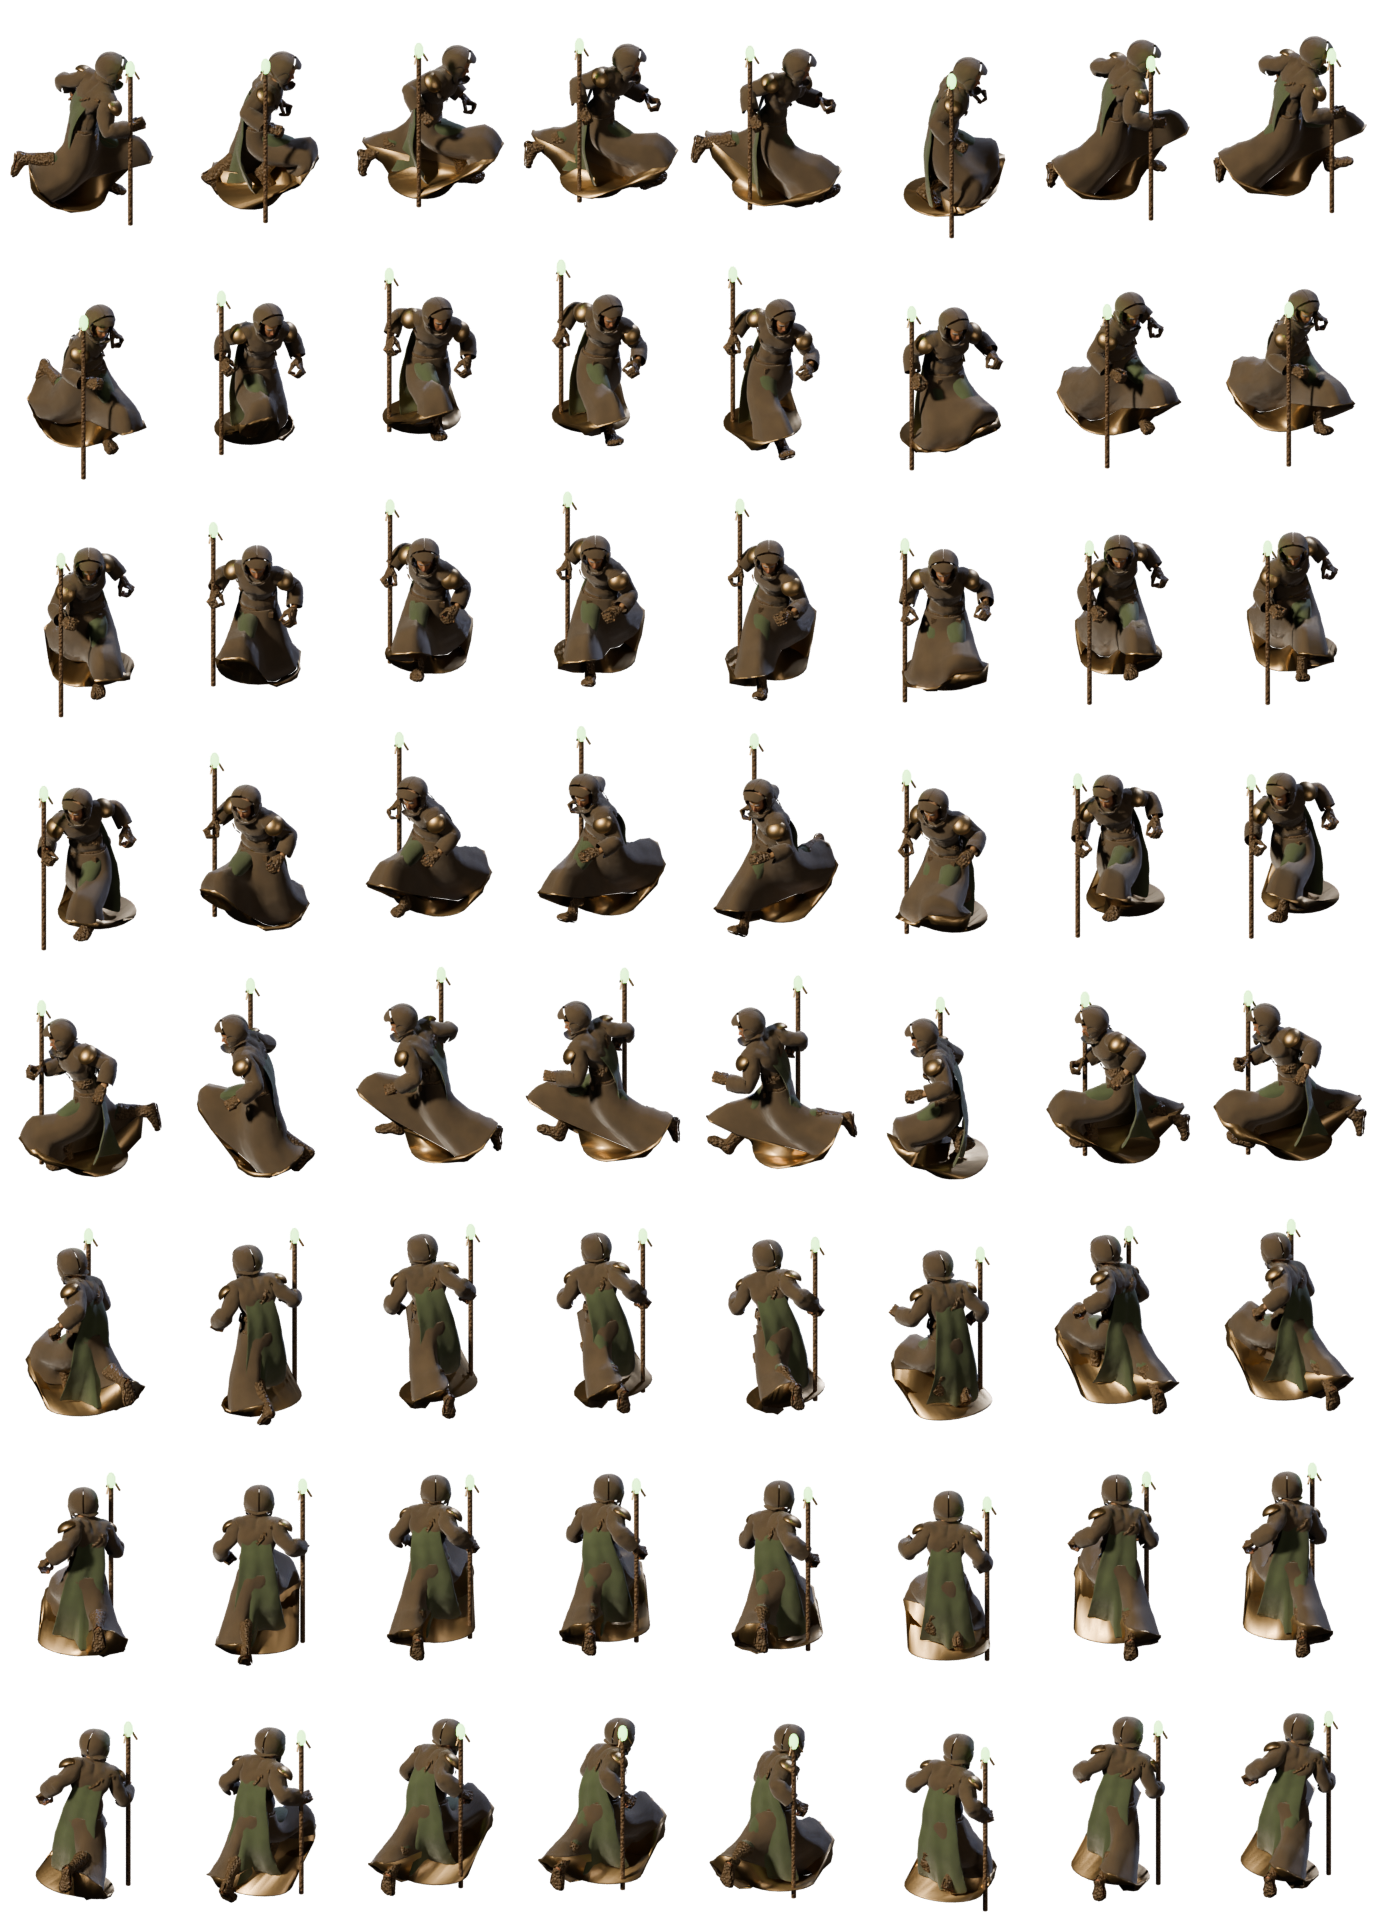
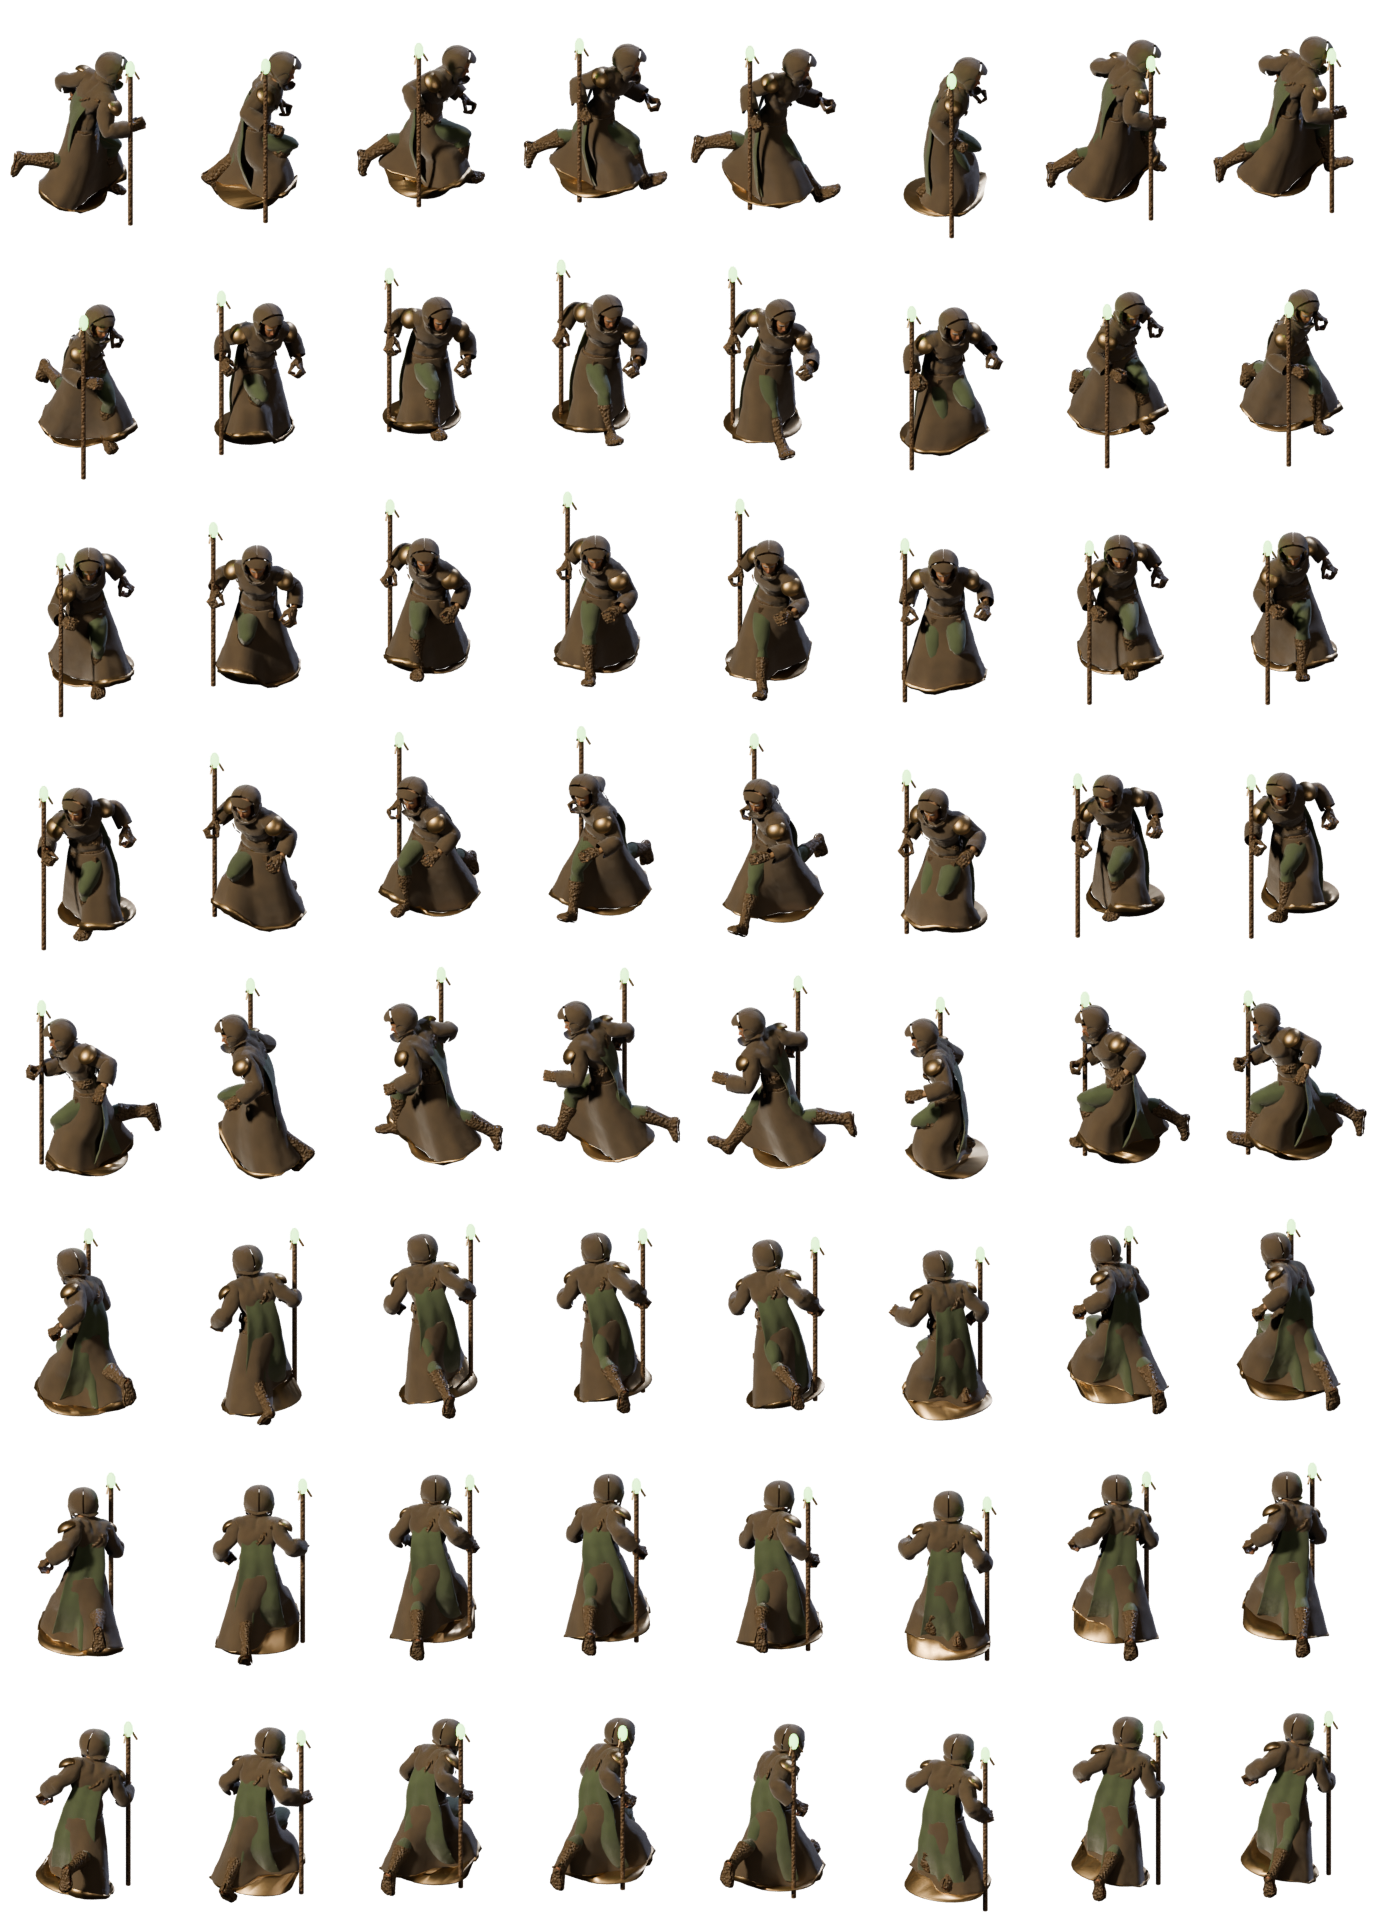
Magos: saia não abre mais como sino ao correr (re-render das 4 classes)

diff --git a/ferramentas/sprites3d/roupas.py b/ferramentas/sprites3d/roupas.py
@@ -160,7 +160,8 @@ def saia(arm, nome, mat, z_top=1.02, z_bot=0.16, r_top=(0.19, 0.14), r_bot=(0.42
     for v in me.vertices:
         t = (z_top - v.co.z) / (z_top - z_bot)
         lado = max(-1.0, min(1.0, v.co.x / 0.12))
-        perna = min(1.0, t * 1.4)
+        # perna puxa pouco: com muito peso a saia abria como um sino ao correr
+        perna = min(0.42, t * 0.7)
         o.vertex_groups["pelvis"].add([v.index], max(0.0, 1.0 - perna), "REPLACE")
         coxa = perna * (1.0 - max(0.0, t - 0.5))
         canela = perna * max(0.0, t - 0.5)
